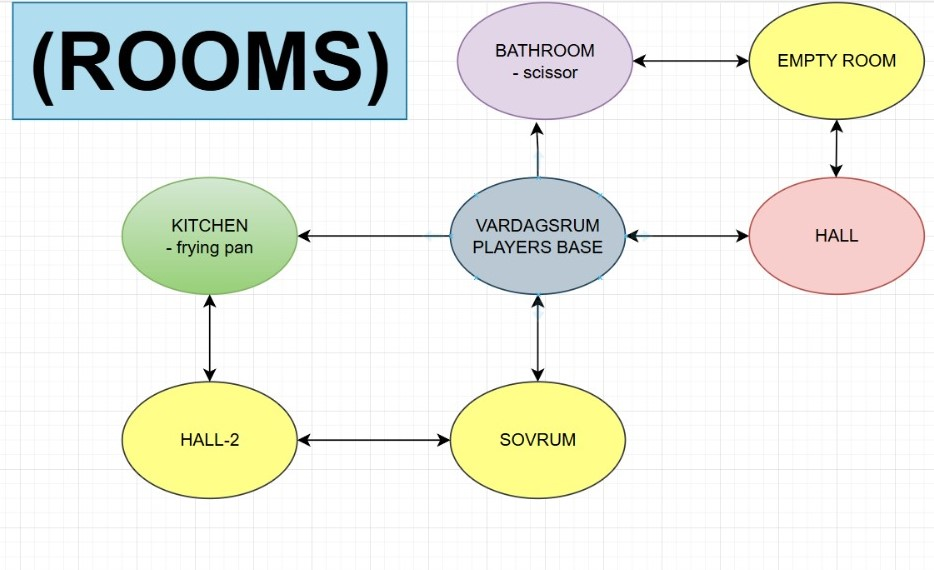
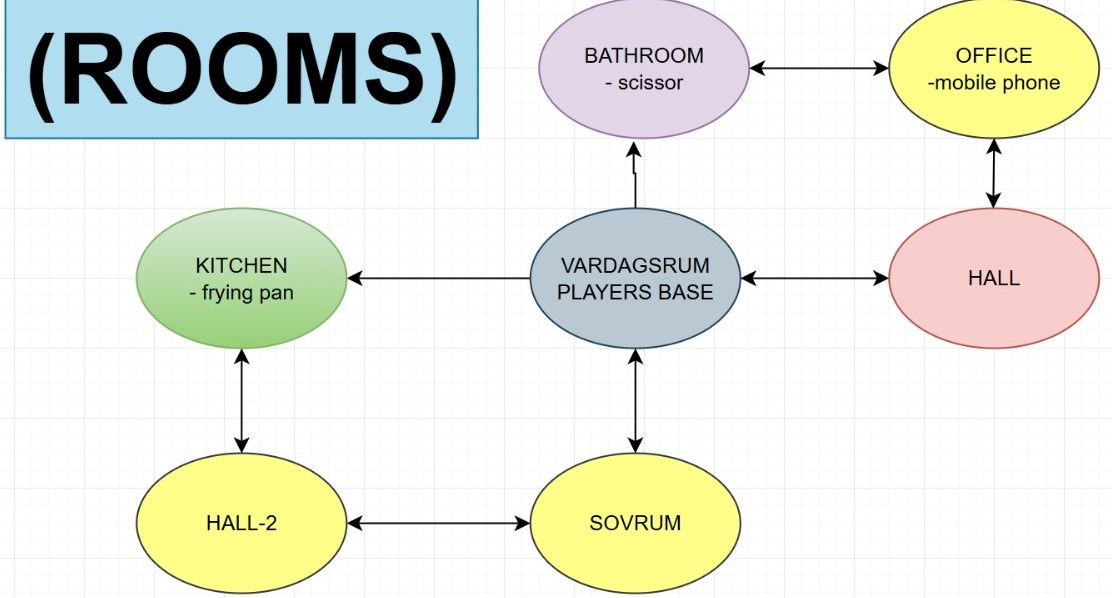
text added to beginning of fight, empty room changed into office

diff --git a/src/main/java/se/meteturkan/game/Game.java b/src/main/java/se/meteturkan/game/Game.java
@@ -44,13 +44,13 @@ public class Game {
         Room kitchen = RoomFactory.createRoom("Kitchen", scanner, menu, controller);
         Room bedroom = RoomFactory.createRoom("Bedroom",scanner, menu, controller);
         Room bathroom = RoomFactory.createRoom("Bathroom",scanner, menu, controller);
-        Room emptyroom = RoomFactory.createRoom("EmptyRoom",scanner, menu, controller);
+        Room office = RoomFactory.createRoom("Office",scanner, menu, controller);
         Room hall = RoomFactory.createRoom("Hall",scanner, menu, controller);
         Room hall2 = RoomFactory.createRoom("Hall2",scanner, menu, controller);
 
         // Connecting rooms based on house plan
         /**
-         (BATHROOM)   <==>    (EMPTY ROOM)
+         (BATHROOM)   <==>    (OFFICE)
          ^                      ^
          ||                     ||
          v                      v
@@ -68,15 +68,15 @@ public class Game {
 
         // Connecting bathroom to related rooms
         bathroom.connectRoom(livingRoom);
-        bathroom.connectRoom(emptyroom);
+        bathroom.connectRoom(office);
 
-        // Connecting empty room to related rooms
-        emptyroom.connectRoom(bathroom);
-        emptyroom.connectRoom(hall);
+        // Connecting office to related rooms
+        office.connectRoom(bathroom);
+        office.connectRoom(hall);
 
         // Connecting hall to related rooms
         hall.connectRoom(livingRoom);
-        hall.connectRoom(emptyroom);
+        hall.connectRoom(office);
 
         // Connecting bedroom to related rooms
         bedroom.connectRoom(livingRoom);
@@ -92,7 +92,7 @@ public class Game {
 
         // Setting starting rooms of gamers
         this.residenceCurrentRoom = livingRoom;
-        this.burglarCurrentRoom = emptyroom;
+        this.burglarCurrentRoom = office;
     }
 
     // Initializing menu operations
@@ -173,8 +173,11 @@ public class Game {
 
             // A fight begins if the residence and burglar are in the same room
             if (residenceCurrentRoom == burglarCurrentRoom) {
-                fight.startFight(); // Init fight
-                break;
+                // If residence
+                if (burglar.getHealt() > 0 && residence.getHealt() > 0) {
+                    fight.startFight(); // Init fight
+                }
+
             }
 
             // Resetting hashmap for next iteration
@@ -182,3 +185,4 @@ public class Game {
         }
     }
 }
+

diff --git a/src/main/java/se/meteturkan/rooms/Office.java b/src/main/java/se/meteturkan/rooms/Office.java
@@ -1,0 +1,39 @@
+package se.meteturkan.rooms;
+
+import se.meteturkan.common.OptionController;
+import se.meteturkan.game.Menu;
+
+import java.util.Scanner;
+
+public class Office extends Room {
+    // Constructor
+    public Office(Scanner scanner, Menu menu, OptionController controller) {
+        super(scanner, menu, controller); // Pass dependencies to the abstract class constructor
+        setRoomName("office");
+    }
+
+    private String description = """
+                      The office is compact and orderly. A wooden desk sits against the wall,
+                      topped with a computer and neatly stacked papers. A comfortable chair is
+                      positioned behind the desk, and a small bookshelf filled with books and
+                      files stands in the corner. The window allows natural light to flood the room,
+                      brightening the space. Simple wall art adds a touch of personality, while a potted
+                      plant brings a bit of nature indoors. The overall atmosphere is calm and professional.""";
+
+    @Override
+    public boolean getMaterial() {
+        System.out.println("\nYou see the mobile phone on the corner.\n\nYou decide to\n 1- Call the police!\n 2- Hide the body of burglar!\n\n");
+        int choice = controller.checker(1,2); // User choice to take material or leave it
+
+        // If user takes material, returns true, otherwise false
+        if (choice == 1){
+            menu.printStringWithDelay("You took the scissor.", 10);
+            return true;
+        }
+        return false;
+    }
+
+    public String getDescription() {
+        return description;
+    }
+}

diff --git a/src/main/java/se/meteturkan/fight/Fight.java b/src/main/java/se/meteturkan/fight/Fight.java
@@ -63,6 +63,9 @@ public class Fight {
 
     // Start the fight loop
     public void startFight() {
+        menu.printStringWithDelay( "\nYou confront the burglar, his face concealed by a mask,\n" +
+                                           "yet you can hear his ragged, menacing breath. The air is thick with tension.\n" +
+                                           "It's time for a fight!\n", 20);
         while (running && burglar.isConscious() && residence.isConscious()) {
             System.out.println("\nChoose an action:\n1 - Attack\n2 - Exit\n"); // Prompt user
             int input = controller.checker(1,2); // Prompting user until inputs a valid option
@@ -95,13 +98,7 @@ public class Fight {
         int input = 0; // User choice to call the police or hide the body
 
         // If the resident neutralizes the burglar, prompt to call the police.
-        if (entity.equals("burglar")) {
-            menu.printStringWithDelay("\n\nDo you want to call the police!\n 1 - Call\n 2 - Hide the body!\n", 10);
-            input = controller.checker(1,2); // Prompting user until inputs a valid option
-
-        // Final message
-        menu.printStringWithDelay(input == 1 ? "\nPolice are on the way! Nightmare ended!" : "\nYou hid the body! Too young for jail!", 10);
-        } else {
+        if (entity.equals("residence")) {
             menu.printStringWithDelay("\n\nYou died and your entire house was stolen!", 10);
         }
     }

diff --git a/src/main/java/se/meteturkan/rooms/RoomFactory.java b/src/main/java/se/meteturkan/rooms/RoomFactory.java
@@ -19,8 +19,8 @@ public class RoomFactory {
                 return new Bedroom(scanner, menu, controller);
             case "Hall":
                 return new Hall(scanner, menu, controller);
-            case "EmptyRoom":
-                return new EmptyRoom(scanner, menu, controller);
+            case "Office":
+                return new Office(scanner, menu, controller);
             case "Bathroom":
                 return new Bathroom(scanner, menu, controller);
 

diff --git a/src/main/java/se/meteturkan/rooms/LivingRoom.java b/src/main/java/se/meteturkan/rooms/LivingRoom.java
@@ -11,7 +11,6 @@ public class LivingRoom extends Room {
     public LivingRoom(Scanner scanner, Menu menu, OptionController controller) {
         super(scanner, menu, controller); // Pass dependencies to the abstract class constructor
         setRoomName("living room");
-        //setConnectedRooms();
     }
 
     private String description = """

diff --git a/src/main/java/se/meteturkan/rooms/Bathroom.java b/src/main/java/se/meteturkan/rooms/Bathroom.java
@@ -10,7 +10,6 @@ public class Bathroom extends Room {
     public Bathroom(Scanner scanner, Menu menu, OptionController controller) {
         super(scanner, menu, controller); // Pass dependencies to the abstract class constructor
         setRoomName("bathroom");
-        //setConnectedRooms();
     }
 
     private String description = """

diff --git a/src/main/java/se/meteturkan/rooms/Bedroom.java b/src/main/java/se/meteturkan/rooms/Bedroom.java
@@ -10,7 +10,6 @@ public class Bedroom extends Room {
     public Bedroom(Scanner scanner, Menu menu, OptionController controller) {
         super(scanner, menu, controller); // Pass dependencies to the abstract class constructor
         setRoomName("bedroom");
-        //setConnectedRooms();
     }
 
     private String description = """

diff --git a/src/main/java/se/meteturkan/rooms/Hall2.java b/src/main/java/se/meteturkan/rooms/Hall2.java
@@ -10,7 +10,6 @@ public class Hall2 extends Room {
     public Hall2(Scanner scanner, Menu menu, OptionController controller) {
         super(scanner, menu, controller); // Pass dependencies to the abstract class constructor
         setRoomName("hall-2");
-        //setConnectedRooms();
     }
 
     private String description = """

diff --git a/src/main/java/se/meteturkan/rooms/Hall.java b/src/main/java/se/meteturkan/rooms/Hall.java
@@ -11,7 +11,6 @@ public class Hall extends Room {
     public Hall(Scanner scanner, Menu menu, OptionController controller) {
         super(scanner, menu, controller); // Pass dependencies to the abstract class constructor
         setRoomName("hall");
-        //setConnectedRooms();
     }
 
     private String description = """
